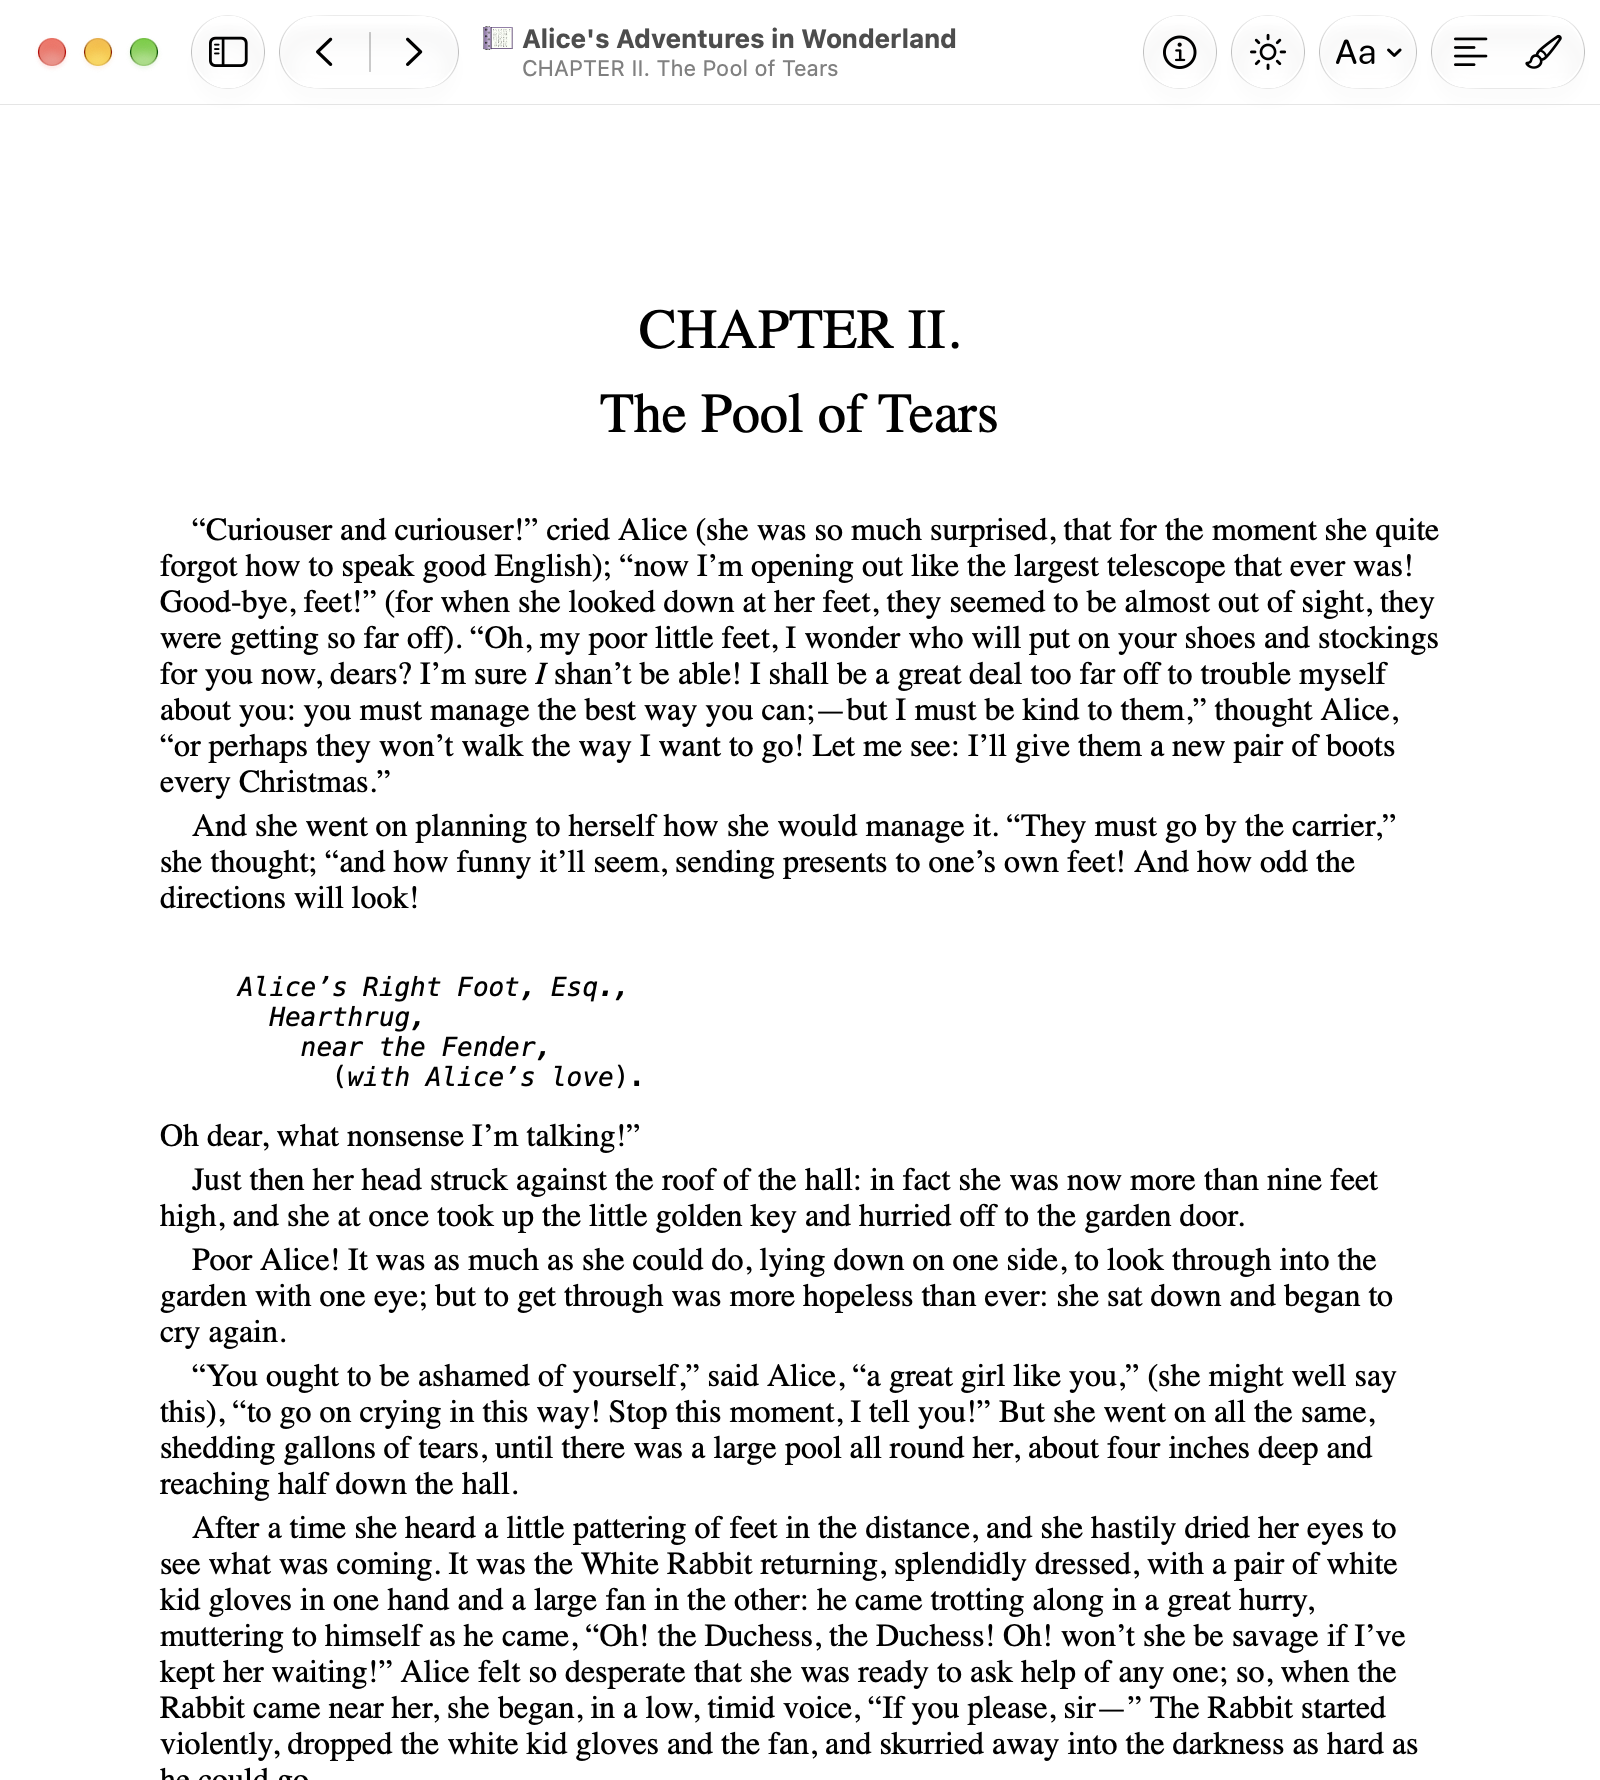
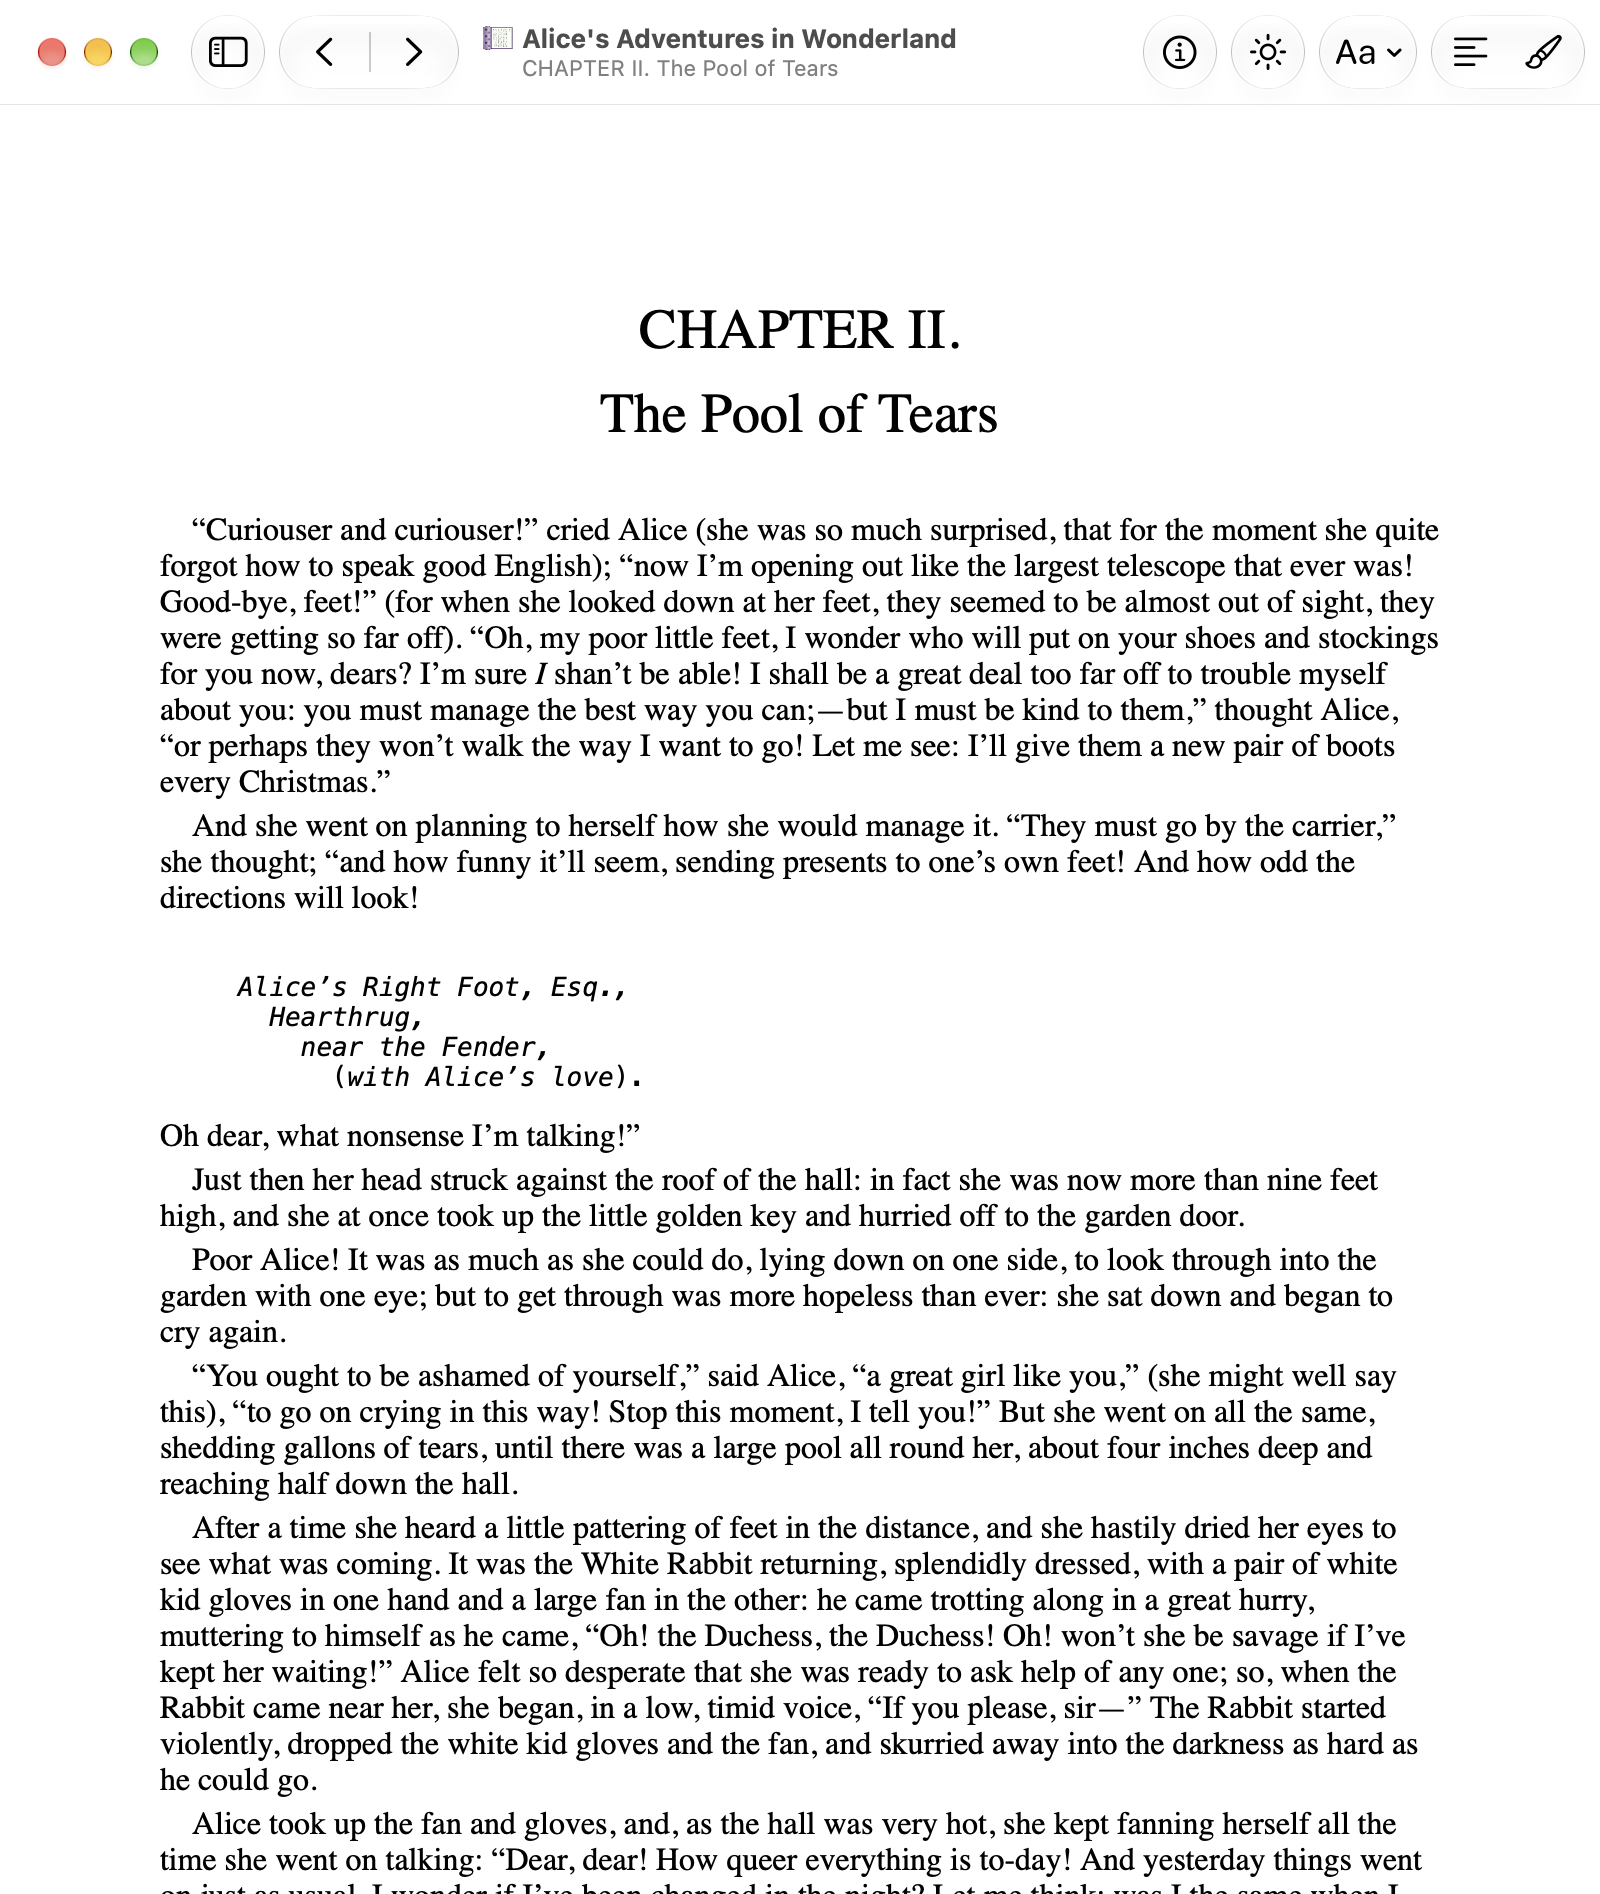
feat(site): the screenshot lines up with the feature cards; no source link
Following Rocco's sketch, the screenshot starts where the right feature cards'
text starts and is as wide as the span from the left cards' text to the right
cards' glyphs: 402 px, derived in CSS from the cards' own measures, which are
now custom properties of the page. Top on the icon's tile, bottom at the end of
the install steps, as before.

The "source code" link is gone from the subtitle: the code may not stay public.
In two columns the Italian subtitle is about 1.5 px wider than its column, so it
stays on one line instead of leaving "macOS" alone.

Screenshots taken again at 1600 x 1894, and the link preview with them.

Agent: Claude Code

diff --git a/publish/index.html b/publish/index.html
@@ -120,7 +120,11 @@
   a:hover{text-decoration:underline}
   :focus-visible{outline:2px solid var(--text-link); outline-offset:2px}
 
-  .foglio{max-width:960px; width:100%; margin:0 auto; padding:24px 24px 0}
+  /* The feature cards' grid, shared with the screenshot's place (see .schermata). */
+  .foglio{
+    max-width:960px; width:100%; margin:0 auto; padding:24px 24px 0;
+    --fatti-larghezza:840px; --fatti-spazio:40px; --glifo:24px; --glifo-spazio:14px;
+  }
   .testa{display:grid; grid-template-columns:minmax(0,1fr); gap:40px; --icona:108px}
   .alto{display:grid; grid-template-columns:auto 1fr; gap:20px 24px; align-items:center}
   /* The artwork is a 1024 canvas with an 824 tile (100 px of margin and shadow on each side):
@@ -129,7 +133,6 @@
   .icona{display:block; width:var(--icona); height:var(--icona); margin-left:calc(var(--icona) * -100 / 1024)}
   h1{font-size:40px; line-height:1.1; letter-spacing:-0.02em; font-weight:600; margin:0}
   .sottotitolo{font-size:18px; color:var(--text-muted); margin:6px 0 0}
-  .sottotitolo .sorgente{font-size:15px; white-space:nowrap}
   .parole{display:flex; flex-direction:column; gap:20px; max-width:38rem; grid-column:1 / -1}
   .claim{font-size:18px; line-height:1.55; color:var(--text-muted); margin:0}
   .blocco-scarica{display:flex; flex-direction:column; gap:10px; align-items:flex-start}
@@ -151,10 +154,12 @@
 
   /* The screenshot slot: hidden until its picture has loaded, so a missing file never shows
      as a broken image. Expected files, one per language and theme (see the script):
-     assets/screenshot-it-light.png, -it-dark, -en-light, -en-dark; 1600 x 1780, a portrait
-     window without the sidebar (the owner's requests, 2026-10-10). In two columns it is as
-     wide as the right column and as tall as the left one, from the icon's tile to the end of
-     the install steps: 428 x 476 px, measured in both languages.
+     assets/screenshot-it-light.png, -it-dark, -en-light, -en-dark; a portrait window without
+     the sidebar (the owner's requests, 2026-10-10). In two columns its place comes from the
+     feature cards below: it starts where the right cards' text starts, and it is as wide as the
+     span from the left cards' text to the right cards' glyphs (402 px); its top is on the
+     icon's tile, its bottom at the end of the install steps. The picture's proportions are
+     measured on that layout, in both languages (see ScreenshotSession.contentSize).
      The shadow is AIV's: a soft shadow on light, and on dark (where black would not show) a
      shadow plus a glow in the accent colour. It is a drop-shadow, which follows the window's
      rounded corners and takes no room: only the picture lines up with the column's edges. */
@@ -167,18 +172,28 @@
   .schermata[hidden]{display:none}
   .schermata img{display:block; width:100%; height:auto; filter:var(--ombra-schermata)}
   @media (min-width:1000px){
-    /* Two equal columns: words on the left, as wide as the column (the opening text included),
-       and the screenshot on the right, its top on the icon's tile (the canvas has 100 px of
-       margin in 1024, as in .icona). */
-    .con-schermata .testa{grid-template-columns:minmax(0,1fr) minmax(0,1fr); gap:56px; align-items:start}
+    /* Two columns: words on the left, as wide as the column (the opening text included), and
+       the screenshot on the right, lined up with the feature cards (see above), its top on the
+       icon's tile (the canvas has 100 px of margin in 1024, as in .icona). */
+    .con-schermata .testa{
+      --colonna-fatti:calc((var(--fatti-larghezza) - var(--fatti-spazio)) / 2);
+      --rientro:calc(var(--glifo) + var(--glifo-spazio));
+      --schermata-larghezza:calc(var(--colonna-fatti) + var(--fatti-spazio) - var(--rientro));
+      --schermata-inizio:calc(var(--colonna-fatti) + var(--fatti-spazio) + var(--rientro));
+      grid-template-columns:minmax(0,1fr) var(--schermata-larghezza); gap:56px; align-items:start;
+      max-width:calc(var(--schermata-inizio) + var(--schermata-larghezza));
+    }
     .con-schermata .parole{max-width:none}
+    /* The Italian subtitle is about 1.5 px wider than its column: kept on one line, it runs
+       into the empty gap rather than leaving "macOS" alone on a second line. */
+    .con-schermata .sottotitolo{white-space:nowrap}
     .con-schermata .schermata{margin-top:calc(var(--icona) * 100 / 1024)}
   }
 
-  .fatti{display:grid; grid-template-columns:repeat(2,minmax(0,1fr)); gap:20px 40px; padding:56px 0 0; max-width:840px}
+  .fatti{display:grid; grid-template-columns:repeat(2,minmax(0,1fr)); gap:20px var(--fatti-spazio); padding:56px 0 0; max-width:var(--fatti-larghezza)}
   .fatto{
-    display:flex; gap:14px; align-items:flex-start;
-    --glifo:24px; --titolo-corpo:15px; --titolo-interlinea:1.2;
+    display:flex; gap:var(--glifo-spazio); align-items:flex-start;
+    --titolo-corpo:15px; --titolo-interlinea:1.2;
   }
   .fatto svg{
     flex:none; color:var(--accent);
@@ -214,9 +229,6 @@
     .tecnica{text-align:center; line-height:1.8}
     .installa{align-self:center}
     .solo-mac{text-align:center}
-    /* The source link goes on its own line, without the separating dot. */
-    .sottotitolo .sorgente{display:block; margin-top:2px}
-    .sottotitolo .sorgente [aria-hidden]{display:none}
     .tecnica .sep{display:none}
     .tecnica .pezzo{display:block}
     .fatti{grid-template-columns:1fr; padding-top:40px}
@@ -236,7 +248,7 @@
     </picture>
     <div>
       <h1>Aomidori</h1>
-      <p class="sottotitolo"><span id="sottotitolo">eBook and comic reader for macOS</span> <span class="sorgente"><span aria-hidden="true">&middot;</span> <a id="sorgente" href="https://github.com/Roccobot/Aomidori" target="_blank" rel="noopener noreferrer">source code</a></span></p>
+      <p class="sottotitolo"><span id="sottotitolo">eBook and comic reader for macOS</span></p>
     </div>
     <div class="parole">
       <p class="claim" id="claim">A light, snappy EPUB reader that works like a web page: each chapter scrolls vertically, the arrow keys change chapter, and your CSS always has the last word.</p>
@@ -261,7 +273,7 @@
       </div>
     </div>
   </div>
-  <figure class="schermata" id="schermata" hidden><img id="schermata-img" width="1600" height="1780" alt=""></figure>
+  <figure class="schermata" id="schermata" hidden><img id="schermata-img" width="1600" height="1894" alt=""></figure>
   </div>
 
   <div class="fatti">
@@ -348,7 +360,6 @@
       scarica: 'Scarica Aomidori',
       sistema: 'macOS 27 o successivo, solo Apple Silicon',
       versioni: 'tutte le versioni',
-      sorgente: 'codice sorgente',
       soloMac: 'Aomidori è un\'app per Mac: scaricala da un Mac con Apple Silicon.',
       installaTitolo: 'Come si installa',
       passi: [
@@ -381,7 +392,6 @@
       scarica: 'Download Aomidori',
       sistema: 'macOS 27 or later, Apple Silicon only',
       versioni: 'all versions',
-      sorgente: 'source code',
       soloMac: 'Aomidori is an app for the Mac: download it on a Mac with Apple Silicon.',
       installaTitolo: 'Installing',
       passi: [
@@ -449,7 +459,6 @@
 
     el('sottotitolo').textContent = T.sottotitolo;
     el('claim').textContent = T.claim;
-    el('sorgente').textContent = T.sorgente;
     el('installa-titolo').textContent = T.installaTitolo;
     for (var p = 0; p < T.passi.length; p++) el('passo-' + (p + 1)).textContent = T.passi[p];
     var soloMac = el('solo-mac');
